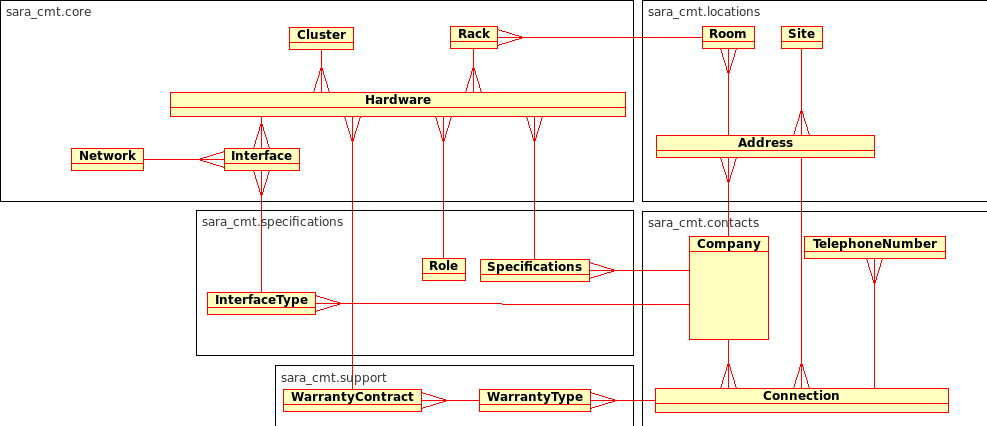
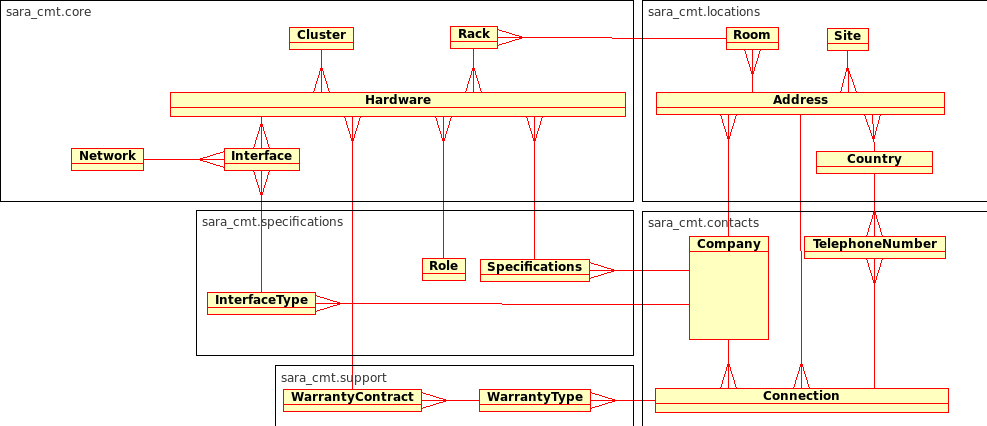
* Some small changes on models and their behavior  * Some small changes in admin pages  * Added fixtures  * Changed representation of Rack  * Fixed a bug in WarrantyContract; it was saved as a Warranty  * Fixed a bug in parsing of a query given as a parameter; things went wrong    when values itself

Changed region(s): [[0.6383, 0.2136, 0.9726, 0.4272], [0.6383, 0.061, 0.8815, 0.1526]]

diff --git a/sara_cmt/sara_cmt/cluster/models.py b/sara_cmt/sara_cmt/cluster/models.py
@@ -47,10 +47,10 @@ class HardwareUnit(ModelExtension):
   warranty     = models.ForeignKey('WarrantyContract', related_name='hardware', null=True, blank=True)
   rack         = models.ForeignKey('Rack', related_name='contents')
 
-  serialnumber = models.CharField(max_length=30, blank=True, unique=True) # should be a field of Specifications
-  service_tag  = models.CharField(max_length=30, blank=True, unique=True)
+  serialnumber = models.CharField(max_length=30, blank=True, null=True, unique=True) # should be a field of Specifications
+  service_tag  = models.CharField(max_length=30, blank=True, null=True, unique=True)
   first_slot   = models.PositiveIntegerField()
-  hostname     = models.CharField(max_length=30, blank=True)
+  label        = models.CharField(max_length=30, blank=True)
 
   class Meta:
     #verbose_name = "piece of hardware"
@@ -60,25 +60,25 @@ class HardwareUnit(ModelExtension):
 
   def __unicode__(self):
     try:
-      assert self.hostname, "piece of hardware hasn't got a hostname yet"
-      return self.hostname
+      assert self.label, "piece of hardware hasn't got a label yet"
+      return self.label
     except AssertionError, e:
       return e
       
   def save(self, force_insert=False, force_update=False):
     """
-      First check if the hostname has already been filled in. If it's still
-      emtpy, then set it to the default basename (based on rack# and node#).
+      First check if the label has already been filled in. If it's still empty,
+      then set it to the default basename (based on rack# and node#).
     """
-    if not self.hostname:
-      self.hostname = self.default_basename()
+    if not self.label:
+      self.label = self.default_label()
 
     super(HardwareUnit, self).save(force_insert, force_update)
 
-  def default_basename(self):
+  def default_label(self):
     # TODO: make dynamic for different types of clusters
     try:
-      assert self.rack.label is not None and self.first_slot is not None, 'not able to generate hostname'
+      assert self.rack.label is not None and self.first_slot is not None, 'not able to generate a label'
       return 'r%sn%s' % (self.rack.label, self.first_slot)
     except:
       pass
@@ -115,7 +115,7 @@ class Interface(ModelExtension):
       if ip not in network:
         self.ip = self.network.pick_ip()
 
-      self.hostname = '%s%s' % (self.network.prefix, self.hardware.hostname)
+      self.hostname = '%s%s' % (self.network.prefix, self.hardware.label)
 
       super(Interface, self).save(force_insert, force_update)
     except AssertionError, e:
@@ -218,7 +218,7 @@ class Rack(ModelExtension):
     stack of slots. It is located on a site.
   """
 
-  room = models.ForeignKey('Room')
+  room = models.ForeignKey('Room', related_name='racks')
 
   label    = models.SlugField(max_length=30)
   capacity = models.PositiveIntegerField(verbose_name='number of slots')
@@ -230,14 +230,8 @@ class Rack(ModelExtension):
     verbose_name_plural = 'racks'
 
 
-  # !!! TODO: Get rid of this !!!
   def __unicode__(self):
-    try:
-      assert self.label is not None, "rack hasn't got a label"
-      return self.label
-    except AssertionError, e:
-      print AssertionError, e
-      return '[None]'
+    return '%s_%s' % (self.room.label,self.label)
 
 #
 #
@@ -445,10 +439,12 @@ class Role(ModelExtension):
 
 class InterfaceType(ModelExtension):
   label = models.CharField(max_length=60, help_text="'DRAC 4' for example")
+  # ??? TODO: add a CharField for version ???
   vendor = models.ForeignKey('Company', null=True, blank=True, related_name='interfaces')
 
 
   class Meta:
+    ordering = ['label']
     verbose_name = 'type of interface'
     verbose_name_plural = 'types of interfaces'
 
@@ -507,6 +503,6 @@ class WarrantyContract(ModelExtension):
         year = self.date_from.year + (self.date_from.month-1 + self.months) / 12,
         month = (self.date_from.month + self.months) % 12
       )
-      super(Warranty, self).save(force_insert, force_update)
+      super(WarrantyContract, self).save(force_insert, force_update)
     except AttributeError, e:
       logger.error(e)

diff --git a/sara_cmt/cmt.py b/sara_cmt/cmt.py
@@ -301,10 +301,21 @@ def queries_to_dict(queries):
   # like {('<attr>':'<val>')+}.
 
   result = {}
+  logger.debug('queries: %s'%queries)
   for query in queries:
+    logger.debug('query  : %s'%query)
     query = query.split(',')
+    # Queries with a comma in the assignment are broken now, so first fix them:
+    index = len(query)-1
+    while index > 1:
+      if '=' not in query[index]:
+        query[index-1] = ','.join([query[index-1],query.pop(index)])
+      index-=1
+
+
     for q in query:
-      (opt,val) = q.split('=')
+      logger.debug('q      : %s'%q)
+      (opt,val) = q.split('=',1)
       if result.has_key(opt):
         if isinstance(result[opt], ListType):
           # This option has been parsed multiple times

diff --git a/sara_cmt/sara_cmt/cluster/admin.py b/sara_cmt/sara_cmt/cluster/admin.py
@@ -70,11 +70,11 @@ class ClusterAdmin(admin.ModelAdmin):
 
 class HardwareUnitAdmin(admin.ModelAdmin):
   fieldsets = (
-    (None, {
-      'fields': (('cluster', 'role'), ),
+    ('Host info', {
+      'fields': (('cluster', 'label', 'role'),),
     }),
     ('Machine specifications', {
-      'fields': (('specifications', 'warranty'),)
+      'fields': (('specifications', 'warranty'),('service_tag', 'serialnumber'))
     }),
     ('Physical location', {
       'fields': (('rack', 'first_slot'),)
